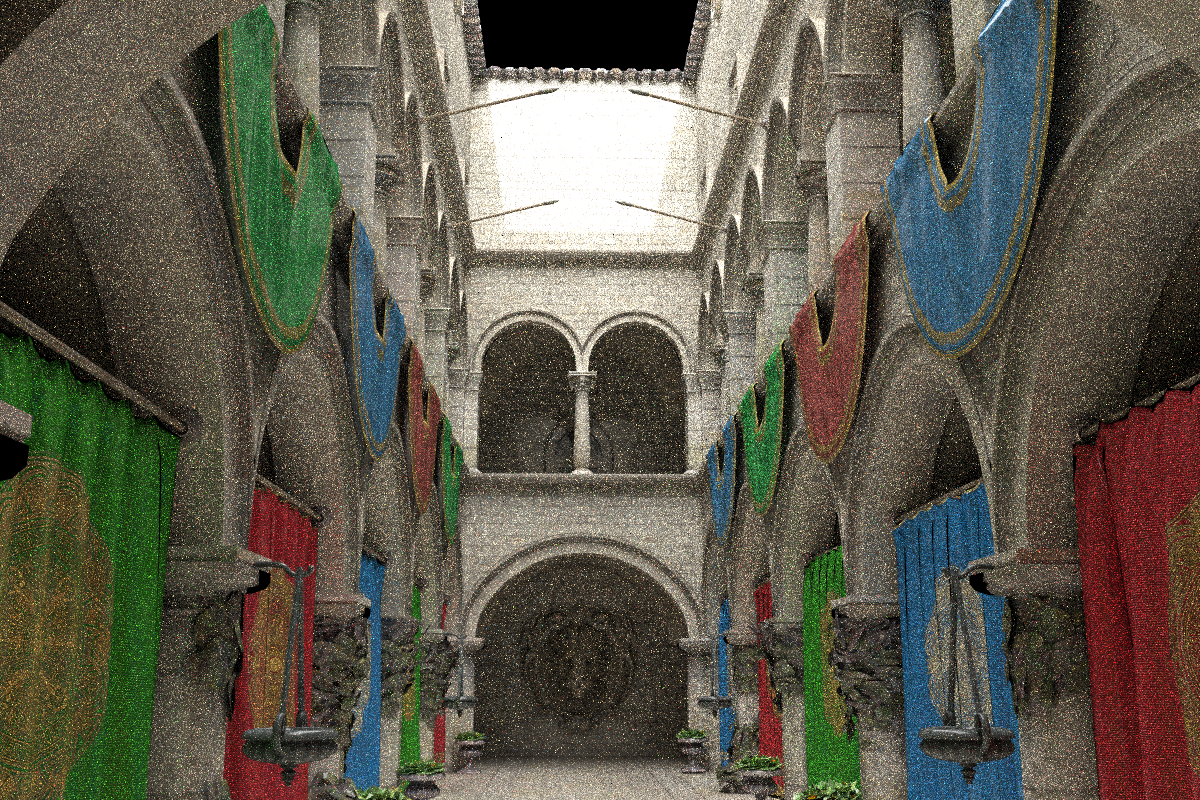
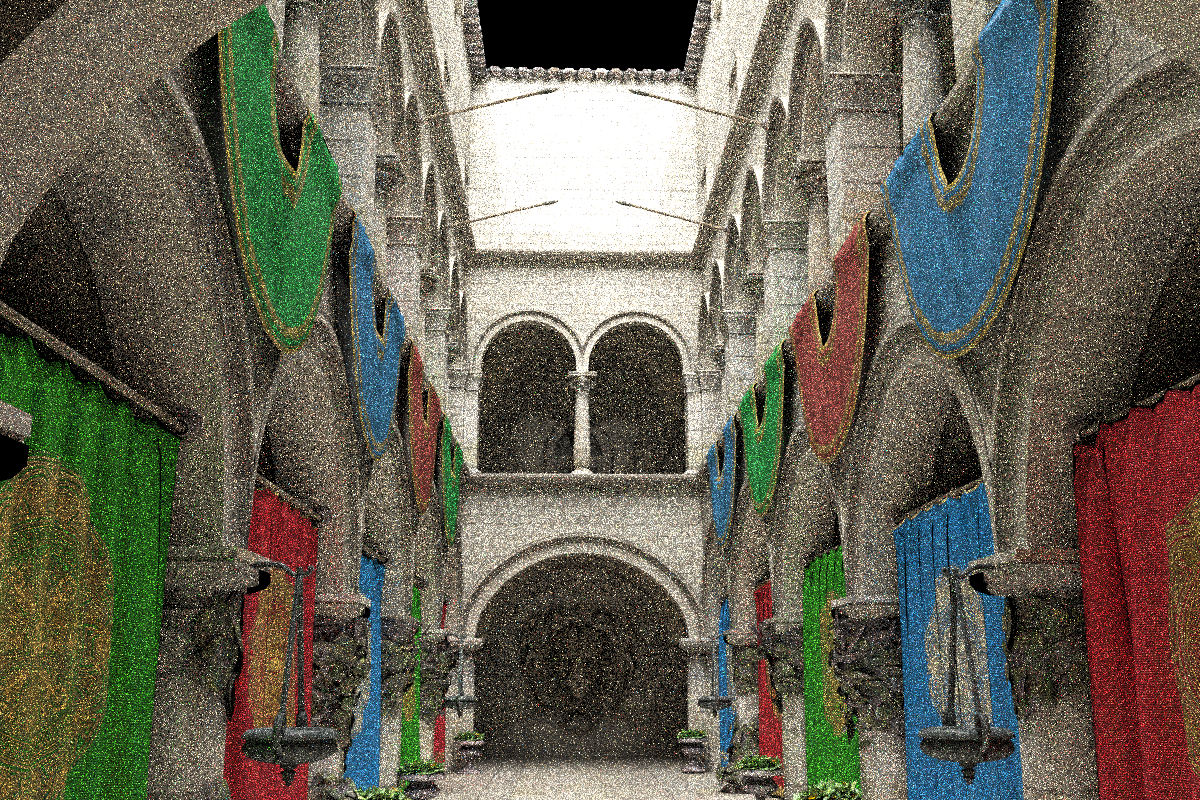
bug fix:fix any bugs

diff --git a/raytrace_work/BDPT_function.h b/raytrace_work/BDPT_function.h
@@ -82,7 +82,7 @@ namespace osc {
             vec3f lightDirection = normalize(lightLine);
             pdf *= abs(dot(lightDirection, light.normal)) / M_PI;
 
-            /*��������ǵ��µ�pdf*/
+
             for (int i = 1; i < lightPathLength; i++)
             {
                 BDPTVertex& midPoint = path.vertexs[path.length - i - 1];
@@ -103,7 +103,7 @@ namespace osc {
             }
 
         }
-        /*����ͶӰ�ǵ��µ�pdf�仯*/
+
         for (int i = 1; i < eyePathLength; i++)
         {
             BDPTVertex& midPoint = path.vertexs[i];
@@ -112,7 +112,7 @@ namespace osc {
             vec3f lineDirection = normalize(line);
             pdf *= 1.0f / dot(line, line) * abs(dot(midPoint.normal, lineDirection));
         }
-        /*��������ĸ���*/
+
         for (int i = 1; i < eyePathLength - 1; i++)
         {
             BDPTVertex& midPoint = path.vertexs[i];

diff --git a/raytrace_work/tool_function.h b/raytrace_work/tool_function.h
@@ -1,6 +1,5 @@
 #pragma once
 #include "gdt/random/random.h"
-#include "LaunchParams.h"
 #include "PRD.h"
 
   namespace osc {
@@ -195,7 +194,7 @@
 
             float cosTheta = sqrtf((1.0f - r2) / (1.0f + (a * a - 1.0f) * r2));
 
-            vec3f half = AxisAngle(N, 2 * cosTheta * cosTheta - 1, phi);
+            vec3f half = AxisAngle(N, cosTheta * cosTheta, phi);
 
             dir = 2.0f * dot(V, half) * half - V; //reflection vector
 

diff --git a/raytrace_work/PRD.h b/raytrace_work/PRD.h
@@ -2,6 +2,7 @@
 #include "gdt/math/vec.h"
 #include "gdt/random/random.h"
 #include "BDPT.h"
+
 namespace osc {
     using namespace gdt;
     typedef LCG<16> Random;
